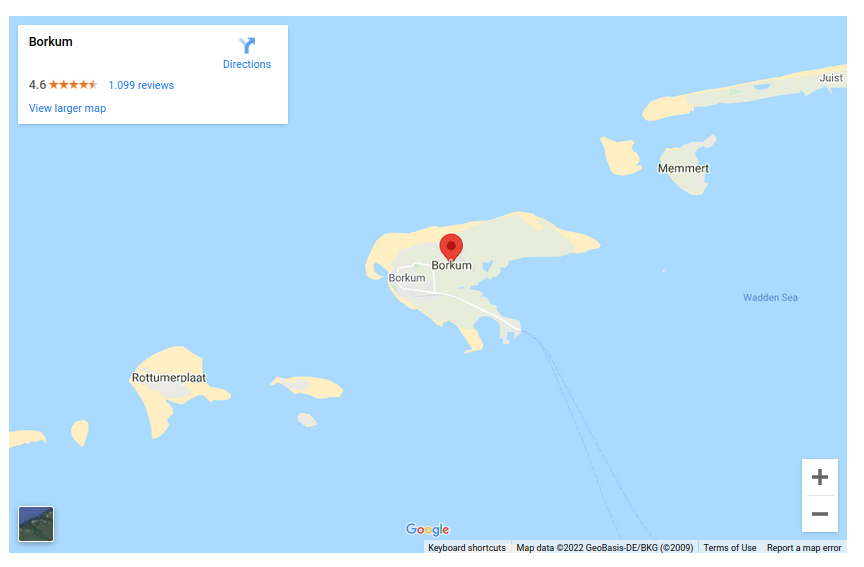
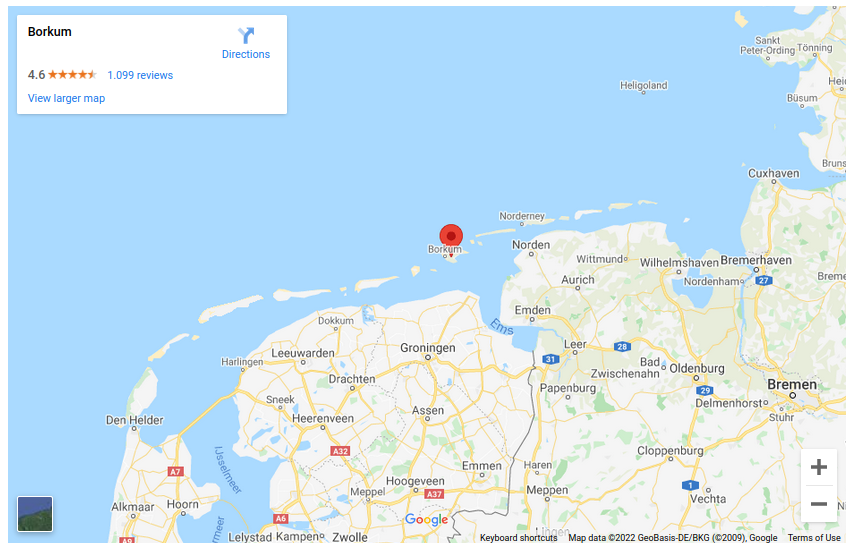
dynamic address and zoom level

diff --git a/googlemaps.php b/googlemaps.php
@@ -46,12 +46,17 @@ class googlemaps extends Plugin {
     $shortcodeArray = $shortcode->getData();
 
     // check if it is the shortcode name that we where looking for
-    if (is_array($shortcodeArray) && $shortcodeArray['name'] == 'GMAPS_FRAME1') {
+    if (is_array($shortcodeArray) && $shortcodeArray['name'] == 'GOOGLEMAPS') {
       // we found our shortcode, so stop firing the event to other plugins
       $shortcode->stopPropagation();
+      $settings = $this->pluginData;
+
+      # Of course you should validate the user input here, but let us skip it to keep it easy ...
+      $address = $shortcodeArray['params']['address'] ?? 'Berlin, Germany';
+      $zoom    = (int)($shortcodeArray['params']['zoom'] ?? $settings["1zoom"]);
 
       // and return a html-snippet that replaces the shortcode on the page.
-      $shortcode->setData($this->generateFrame());
+      $shortcode->setData($this->generateFrame($settings, $address, $zoom));
     }
   }
 
@@ -60,18 +65,10 @@ class googlemaps extends Plugin {
    *
    * @return string
    */
-  protected function generateFrame() {
-    $settings = $this->pluginData;
-
-    $address = $settings["1address"] ?? "";
-    $width   = $settings["1width"] ?? "";
-    $height  = $settings["1height"] ?? "";
-    $type    = $settings["1type"] ?? "";
-    $zoom    = $settings["1zoom"] ?? "";
-
-    if (empty($address)) {
-      return "ERROR: missing address";
-    }
+  protected function generateFrame(array $settings, string $address, int $zoom) {
+    $width  = $settings["1width"] ?? "";
+    $height = $settings["1height"] ?? "";
+    $type   = $settings["1type"] ?? "";
 
     $html = '<iframe width="%s" height="%s" src="https://maps.google.com/maps?width=%s&amp;height=%s&amp;hl=en&amp;q=%s&amp;ie=UTF8&amp;t=%s&amp;z=%d&amp;iwloc=B&amp;output=embed" frameborder="0" scrolling="no" marginheight="0" marginwidth="0"></iframe>';
 

diff --git a/readme.md b/readme.md
@@ -13,7 +13,8 @@ The plugin is developed for [Typemill](https://github.com/typemill/typemill), a 
 ### Insert google maps into a page
 
 * Create paragraph
-* Insert the shortcode `[:GMAPS_FRAME1:]`
+* Insert shortcode `[:GOOGLEMAPS address="Borkum, Germany" :]`
+  * with zoom `[:GOOGLEMAPS address="Borkum, Germany" zoom=15 :]`
 
 ### Screenshots
 
